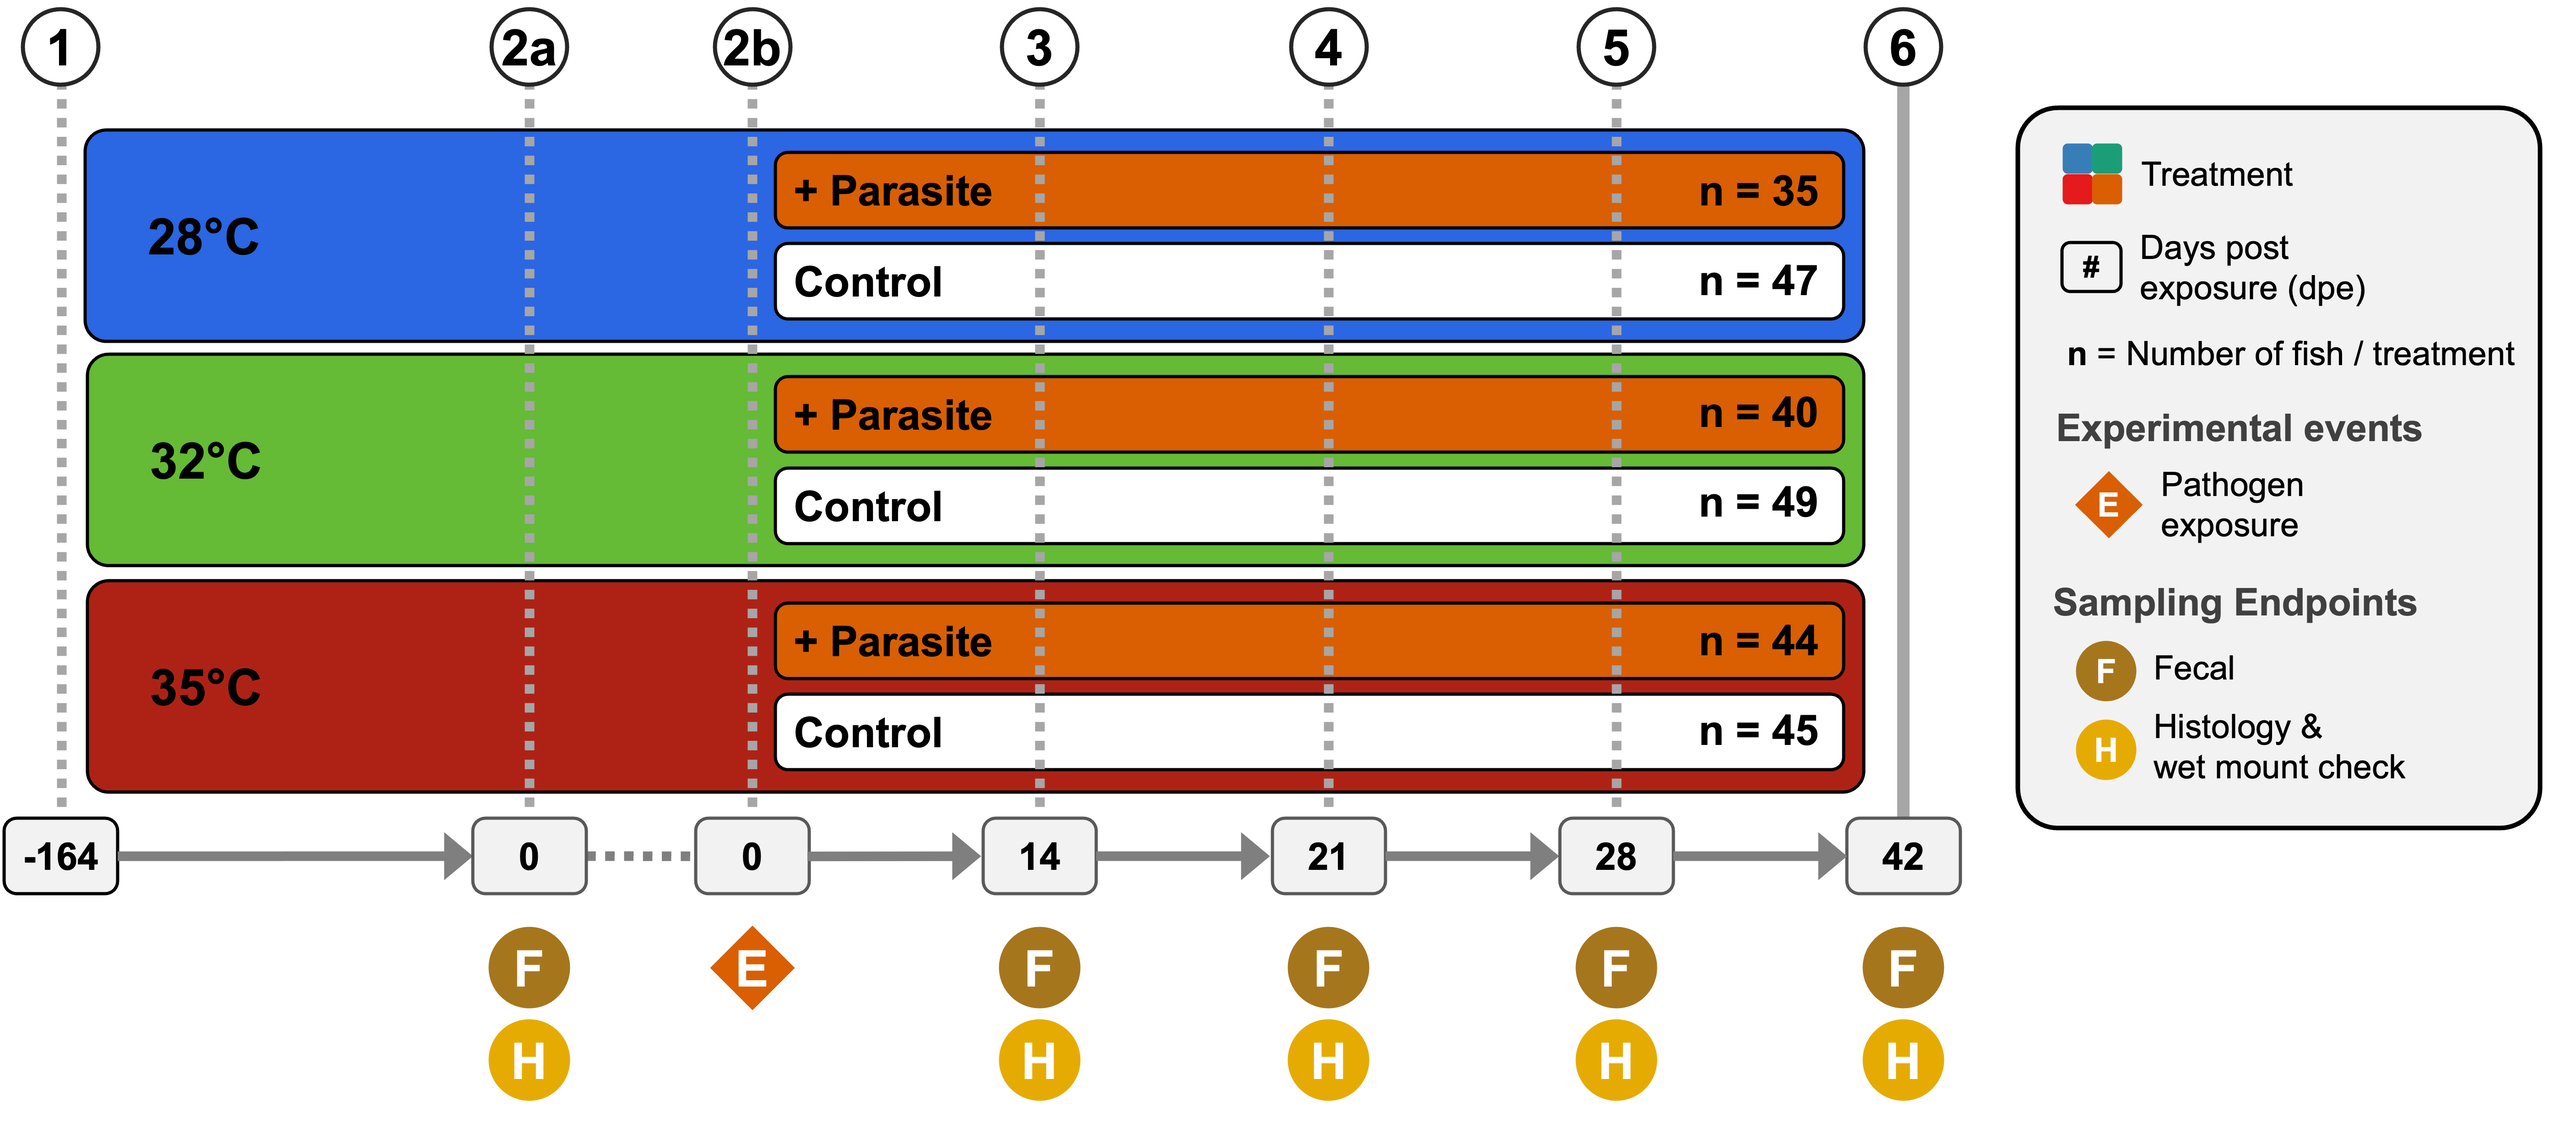
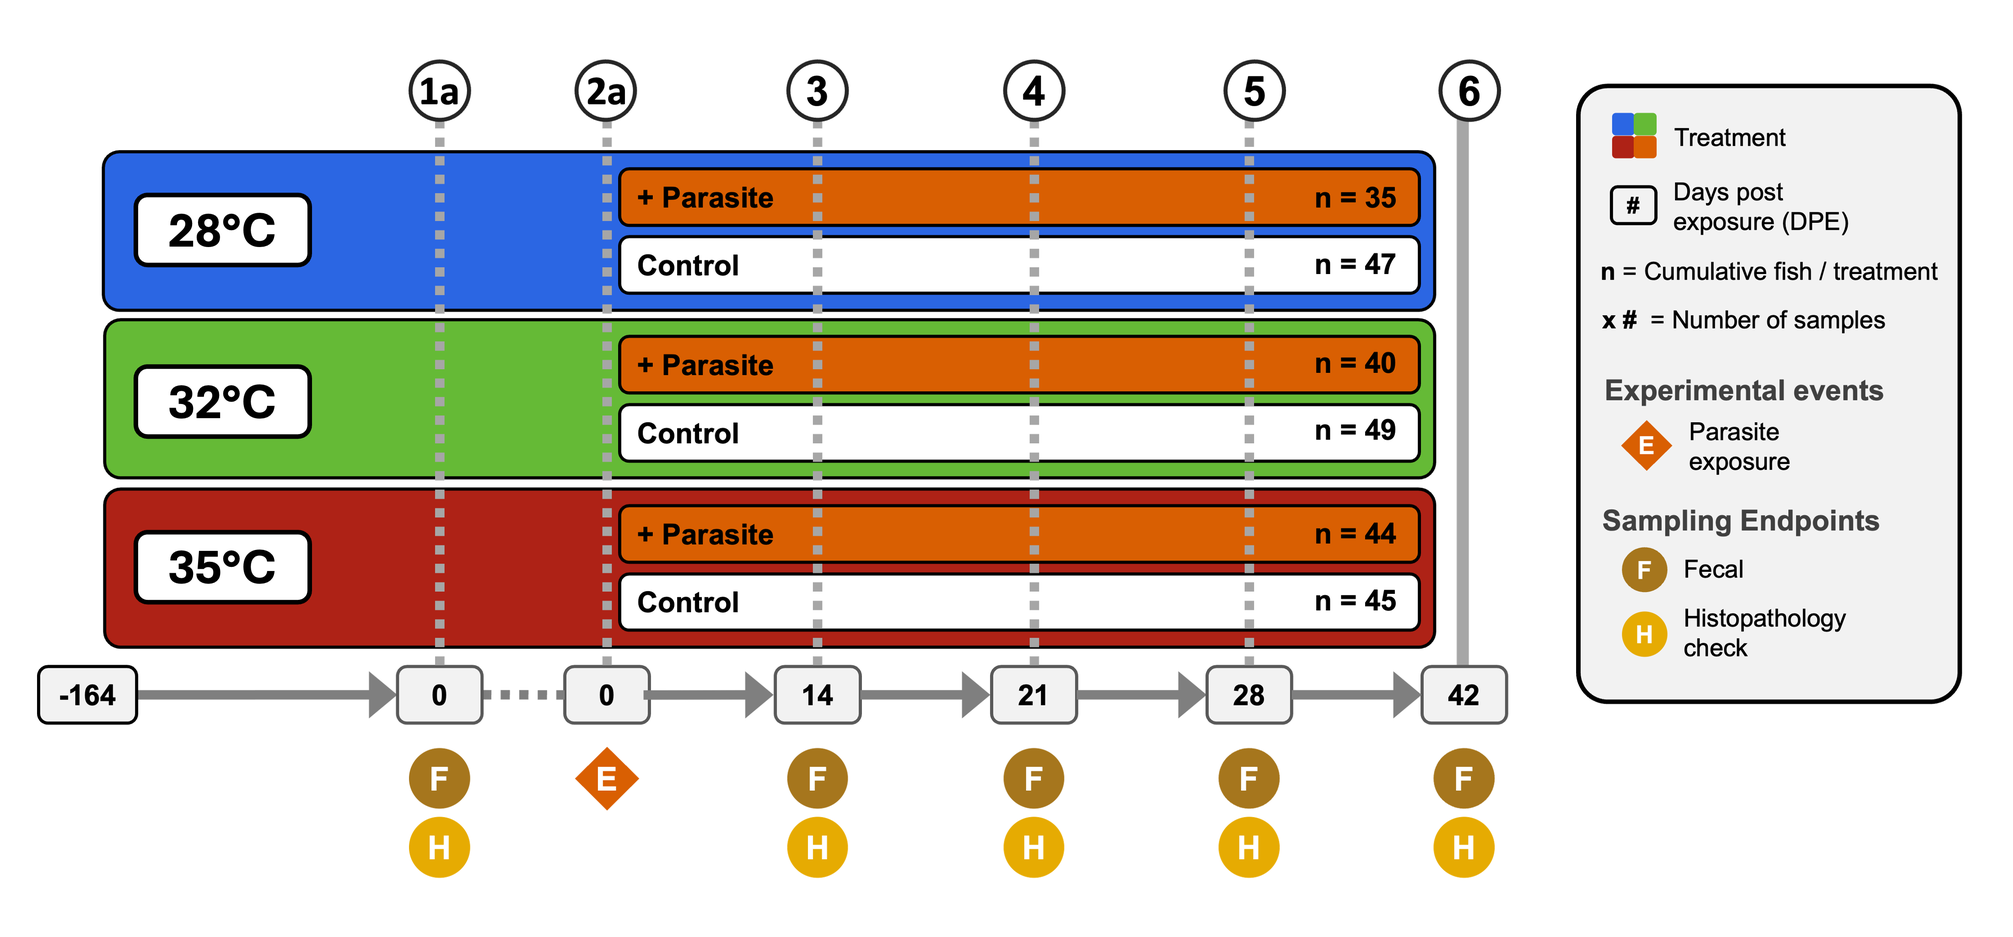
Update Experimental Design Schematic with white background

diff --git a/README.md b/README.md
@@ -6,9 +6,9 @@ Sieler et al. (2024) "Title of paper" *Journal Name*. DOI: [pending]
 
 ## Overview
 
-<div style="background-color: white; display: inline-block; padding: 10px;">
+
 ![Experimental Design Overview](ExperimentalDesignSchematic.png)
-</div>
+
 
 ## Repository Structure
 
